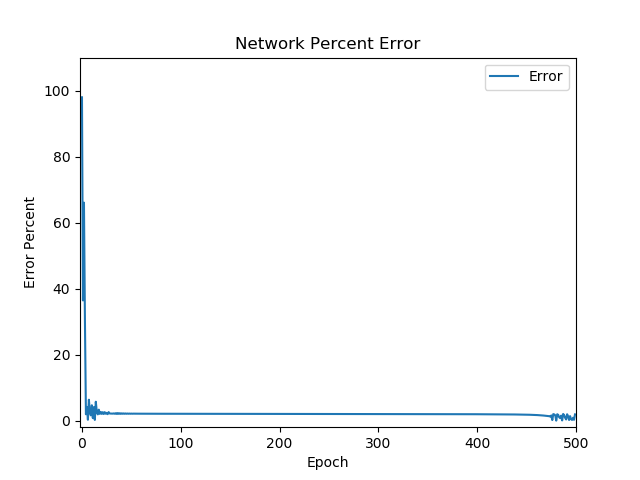
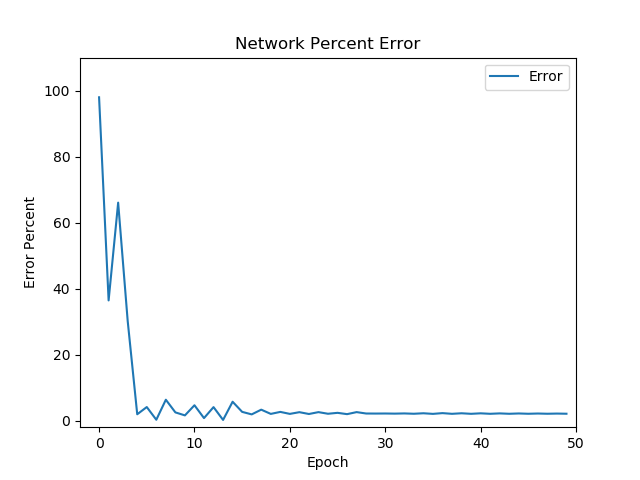
decided on different images

diff --git a/assets/py/classifier.py b/assets/py/classifier.py
@@ -84,7 +84,7 @@ def perceptron():
     network parameters
     **********************************************
     """
-    epochs = 500
+    epochs = 50
 
     w = np.random.random((3,1)) # starting weight for each column (synapse)
     bias = np.ones((len(dat),1)) # bias
